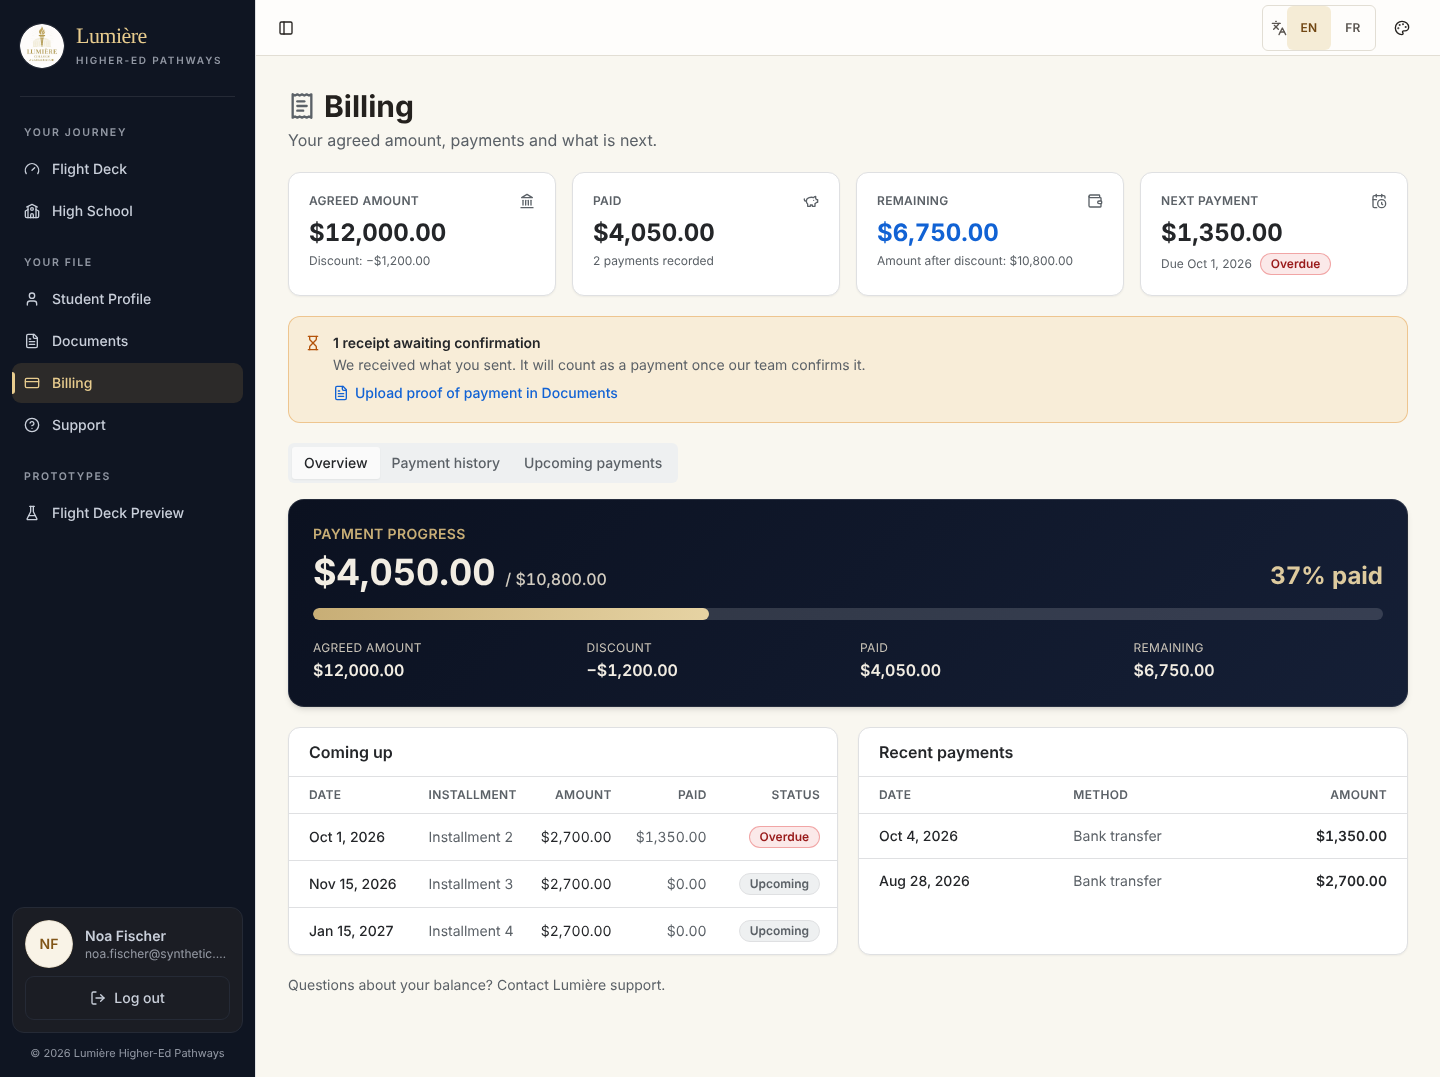
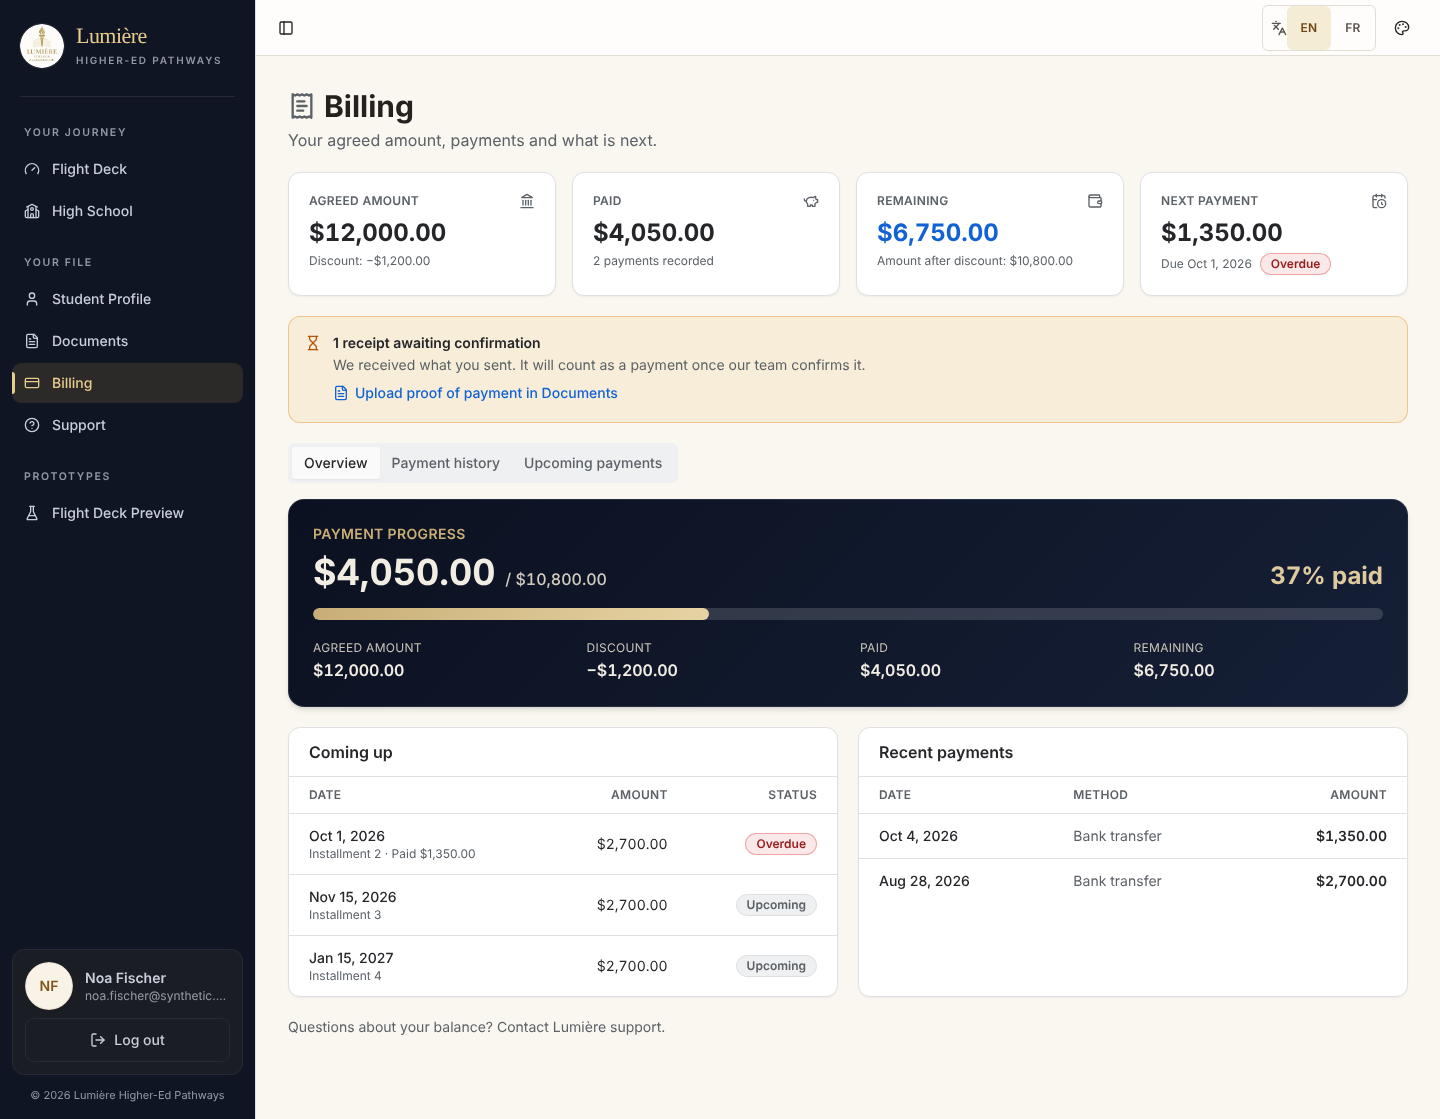
S18: French Billing strings, compact schedule layout, FR persistence check
Billing strings now have a French set selected by the active language; the
half-width 'Coming up' table uses the stacked layout so long labels never
clip. The Billing render script switches to French with the shell toggle,
reloads and asserts html lang and stored preference. Flight Deck area
breakdown gets a visible disclosure chevron.

Claude-Session: https://claude.ai/code/session_01DekWT6b3pFmgRpoZC7hBNu

diff --git a/client/src/pages/billing.tsx b/client/src/pages/billing.tsx
@@ -60,6 +60,52 @@ export const BILLING_TEXT = {
   installmentN: (n: number) => `Installment ${n}`,
 } as const;
 
+/** French counterpart of BILLING_TEXT (same shape; checked by the type below). */
+export const BILLING_TEXT_FR: { readonly [K in keyof typeof BILLING_TEXT]: (typeof BILLING_TEXT)[K] extends (...a: infer A) => string ? (...a: A) => string : string } = {
+  loading: "Chargement de votre facturation…",
+  errorTitle: "Nous n’avons pas pu charger votre facturation",
+  errorDetail: "Vos informations sont en sécurité. Veuillez réessayer dans un instant.",
+  retry: "Réessayer",
+  progressTitle: "Progression des paiements",
+  progressLabel: "Part du montant de votre programme déjà payée",
+  percentPaid: (pct: number) => `${pct} % payé`,
+  netAmount: "Montant après remise",
+  discountApplied: (amount: string) => `Remise de ${amount} incluse`,
+  noDiscount: "Aucune remise appliquée",
+  paymentsCount: (n: number) => (n === 1 ? "1 paiement enregistré" : `${n} paiements enregistrés`),
+  noPaymentsYet: "Aucun paiement enregistré pour l’instant",
+  creditNote: (amount: string) => `Crédit de ${amount} sur votre compte`,
+  allPaid: "Tous les paiements ont été reçus",
+  noSchedule: "Aucun échéancier pour l’instant",
+  planStatusSettled: "Entièrement payé",
+  planStatusOnTrack: "Conforme à l’échéancier",
+  planStatusOverdue: "Paiement en retard",
+  planStatusNoSchedule: "Aucune date de paiement fixée pour l’instant",
+  breakdownTitle: "Où vous en êtes",
+  scheduleTitle: "Échéancier de paiement",
+  scheduleNote: "L’échéancier indique quand le montant restant est attendu. Il ne s’ajoute pas à ce que vous devez.",
+  historyTitle: "Historique des paiements",
+  historyNote: "Paiements confirmés par notre équipe.",
+  recentPayments: "Paiements récents",
+  nextUp: "À venir",
+  date: "Date",
+  installment: "Échéance",
+  paidSoFar: "Payé",
+  status: "Statut",
+  total: "Total",
+  awaitingTitle: (n: number) => (n === 1 ? "1 justificatif en attente de confirmation" : `${n} justificatifs en attente de confirmation`),
+  awaitingDetail: "Nous avons bien reçu votre envoi. Il comptera comme paiement dès que notre équipe l’aura confirmé.",
+  uploadProof: "Déposer un justificatif de paiement dans Documents",
+  contactNote: "Une question sur votre solde ? Contactez l’assistance Lumière.",
+  installmentN: (n: number) => `Échéance ${n}`,
+};
+
+/** Billing strings for the active language. */
+export function billingText(language: string): typeof BILLING_TEXT_FR {
+  return language === "fr" ? BILLING_TEXT_FR : BILLING_TEXT;
+}
+
+
 const STATUS_KEY: Record<InstallmentStatus, TranslationKey> = {
   paid: "billing.status.paid",
   partially_paid: "billing.status.partiallyPaid",
@@ -77,7 +123,8 @@ const STATUS_STYLE: Record<InstallmentStatus, string> = {
 };
 
 export function StatusBadge({ status }: { status: InstallmentStatus }) {
-  const { t } = useT();
+  const { t, language } = useT();
+  const BT = billingText(language);
   return (
     <span
       className={cn("inline-flex items-center whitespace-nowrap rounded-full border px-2.5 py-0.5 text-xs font-semibold", STATUS_STYLE[status])}
@@ -101,18 +148,19 @@ function SummaryCard({ icon: Icon, label, value, sub, testId, emphasis }: { icon
   );
 }
 
-function planStatus(v: StudentBillingConfigured): { label: string; tone: "ok" | "warn" | "neutral" } {
-  if (v.remainingCents === 0) return { label: BILLING_TEXT.planStatusSettled, tone: "ok" };
-  if (v.installments.some((i) => i.status === "overdue")) return { label: BILLING_TEXT.planStatusOverdue, tone: "warn" };
-  if (v.installments.length === 0) return { label: BILLING_TEXT.planStatusNoSchedule, tone: "neutral" };
-  return { label: BILLING_TEXT.planStatusOnTrack, tone: "ok" };
+function planStatus(v: StudentBillingConfigured, BT: typeof BILLING_TEXT_FR): { label: string; tone: "ok" | "warn" | "neutral" } {
+  if (v.remainingCents === 0) return { label: BT.planStatusSettled, tone: "ok" };
+  if (v.installments.some((i) => i.status === "overdue")) return { label: BT.planStatusOverdue, tone: "warn" };
+  if (v.installments.length === 0) return { label: BT.planStatusNoSchedule, tone: "neutral" };
+  return { label: BT.planStatusOnTrack, tone: "ok" };
 }
 
 function Summary({ v }: { v: StudentBillingConfigured }) {
   const { t, language } = useT();
+  const BT = billingText(language);
   const money = (c: number) => formatMoney(c, v.currency, language);
   const next = v.nextDue;
-  const plan = planStatus(v);
+  const plan = planStatus(v, BT);
   return (
     <div className="grid grid-cols-2 gap-3 lg:grid-cols-4 lg:gap-4" data-testid="billing-summary">
       <SummaryCard
@@ -120,14 +168,14 @@ function Summary({ v }: { v: StudentBillingConfigured }) {
         icon={Landmark}
         label={t("billing.summary.agreedAmount")}
         value={money(v.agreedCents)}
-        sub={v.discountCents > 0 ? `${t("billing.summary.discount")}: −${money(v.discountCents)}` : BILLING_TEXT.noDiscount}
+        sub={v.discountCents > 0 ? `${t("billing.summary.discount")}: −${money(v.discountCents)}` : BT.noDiscount}
       />
       <SummaryCard
         testId="card-paid"
         icon={PiggyBank}
         label={t("billing.summary.paid")}
         value={money(v.paidCents)}
-        sub={v.receipts.length === 0 ? BILLING_TEXT.noPaymentsYet : BILLING_TEXT.paymentsCount(v.receipts.length)}
+        sub={v.receipts.length === 0 ? BT.noPaymentsYet : BT.paymentsCount(v.receipts.length)}
       />
       <SummaryCard
         testId="card-remaining"
@@ -135,7 +183,7 @@ function Summary({ v }: { v: StudentBillingConfigured }) {
         label={t("billing.summary.remaining")}
         value={money(v.remainingCents)}
         emphasis={v.remainingCents > 0}
-        sub={v.overpaid ? BILLING_TEXT.creditNote(money(v.creditCents)) : v.remainingCents === 0 ? BILLING_TEXT.allPaid : BILLING_TEXT.netAmount + ": " + money(v.netObligationCents)}
+        sub={v.overpaid ? BT.creditNote(money(v.creditCents)) : v.remainingCents === 0 ? BT.allPaid : BT.netAmount + ": " + money(v.netObligationCents)}
       />
       <SummaryCard
         testId="card-next-payment"
@@ -149,7 +197,7 @@ function Summary({ v }: { v: StudentBillingConfigured }) {
               <StatusBadge status={next.status} />
             </span>
           ) : v.remainingCents > 0 && v.installments.length === 0 ? (
-            BILLING_TEXT.noSchedule
+            BT.noSchedule
           ) : undefined
         }
       />
@@ -160,6 +208,7 @@ function Summary({ v }: { v: StudentBillingConfigured }) {
 /** The navy progress panel: fixed dark palette so it reads the same under every theme. */
 function ProgressPanel({ v }: { v: StudentBillingConfigured }) {
   const { t, language } = useT();
+  const BT = billingText(language);
   const money = (c: number) => formatMoney(c, v.currency, language);
   const pct = paidPercent(v.paidCents, v.netObligationCents);
   return (
@@ -171,17 +220,17 @@ function ProgressPanel({ v }: { v: StudentBillingConfigured }) {
     >
       <div className="flex flex-wrap items-end justify-between gap-3">
         <div>
-          <h2 id="billing-progress-title" className="text-sm font-semibold uppercase tracking-wide text-[#c8ae76]">{BILLING_TEXT.progressTitle}</h2>
+          <h2 id="billing-progress-title" className="text-sm font-semibold uppercase tracking-wide text-[#c8ae76]">{BT.progressTitle}</h2>
           <p className="mt-2 text-3xl font-bold tabular-nums sm:text-4xl">
             {money(v.paidCents)} <span className="text-base font-medium text-[#d2ccc0]">/ {money(v.netObligationCents)}</span>
           </p>
         </div>
-        <p className="text-2xl font-bold tabular-nums text-[#ddca9e]" data-testid="text-percent-paid">{BILLING_TEXT.percentPaid(pct)}</p>
+        <p className="text-2xl font-bold tabular-nums text-[#ddca9e]" data-testid="text-percent-paid">{BT.percentPaid(pct)}</p>
       </div>
       <div
         className="mt-4 h-3 w-full overflow-hidden rounded-full bg-white/15"
         role="progressbar"
-        aria-label={BILLING_TEXT.progressLabel}
+        aria-label={BT.progressLabel}
         aria-valuemin={0}
         aria-valuemax={100}
         aria-valuenow={pct}
@@ -206,16 +255,17 @@ function ProgressPanel({ v }: { v: StudentBillingConfigured }) {
 }
 
 function Awaiting({ n }: { n: number }) {
+  const BT = billingText(useT().language);
   if (n === 0) return null;
   return (
     <div className="flex items-start gap-3 rounded-xl border border-amber-600/35 bg-amber-500/10 p-4 text-sm text-foreground" role="status" data-testid="billing-awaiting">
       <Hourglass className="mt-0.5 h-4 w-4 shrink-0 text-amber-700 dark:text-amber-300" aria-hidden />
       <div className="min-w-0">
-        <p className="font-semibold">{BILLING_TEXT.awaitingTitle(n)}</p>
-        <p className="mt-0.5 text-muted-foreground">{BILLING_TEXT.awaitingDetail}</p>
+        <p className="font-semibold">{BT.awaitingTitle(n)}</p>
+        <p className="mt-0.5 text-muted-foreground">{BT.awaitingDetail}</p>
         <Link href="/documents" className="mt-2 inline-flex items-center gap-1.5 font-medium text-primary underline-offset-4 hover:underline" data-testid="link-upload-proof">
           <FileText className="h-4 w-4" aria-hidden />
-          {BILLING_TEXT.uploadProof}
+          {BT.uploadProof}
         </Link>
       </div>
     </div>
@@ -236,27 +286,31 @@ function PanelCard({ title, note, children, testId }: { title: string; note?: st
 
 function ScheduleTable({ rows, all, currency, limit }: { rows: readonly StudentInstallment[]; all: readonly StudentInstallment[]; currency: string; limit?: number }) {
   const { t, language } = useT();
+  const BT = billingText(language);
   const shown = limit ? rows.slice(0, limit) : rows;
+  // The compact (overview, half-width) table always uses the stacked three-column layout so long labels never clip.
+  const wideCol = limit ? "hidden" : "hidden sm:table-cell";
+  const stacked = limit ? "block" : "block sm:hidden";
   if (rows.length === 0) return <p className="px-4 py-8 text-center text-sm text-muted-foreground sm:px-5">{t("billing.noUpcoming")}</p>;
   return (
-    <div className="overflow-x-auto" tabIndex={0} role="region" aria-label={BILLING_TEXT.scheduleTitle}>
+    <div className="overflow-x-auto" tabIndex={0} role="region" aria-label={BT.scheduleTitle}>
       <table className="w-full text-sm" data-testid="table-installments">
         <thead>
           <tr className="border-b text-left text-xs uppercase tracking-wide text-muted-foreground">
-            <th scope="col" className="px-4 py-2.5 font-semibold sm:px-5">{BILLING_TEXT.date}</th>
-            <th scope="col" className="hidden px-3 py-2.5 font-semibold sm:table-cell">{BILLING_TEXT.installment}</th>
+            <th scope="col" className="px-4 py-2.5 font-semibold sm:px-5">{BT.date}</th>
+            <th scope="col" className={cn(wideCol, "px-3 py-2.5 font-semibold")}>{BT.installment}</th>
             <th scope="col" className="px-3 py-2.5 text-right font-semibold">{t("billing.amount")}</th>
-            <th scope="col" className="hidden px-3 py-2.5 text-right font-semibold sm:table-cell">{BILLING_TEXT.paidSoFar}</th>
-            <th scope="col" className="px-4 py-2.5 text-right font-semibold sm:px-5">{BILLING_TEXT.status}</th>
+            <th scope="col" className={cn(wideCol, "px-3 py-2.5 text-right font-semibold")}>{BT.paidSoFar}</th>
+            <th scope="col" className="px-4 py-2.5 text-right font-semibold sm:px-5">{BT.status}</th>
           </tr>
         </thead>
         <tbody>
           {shown.map((i) => (
             <tr key={i.id} className="border-b last:border-0" data-testid={`row-installment-${i.id}`}>
-              <td className="px-4 py-3 font-medium sm:px-5"><span className="whitespace-nowrap">{formatBillingDate(i.dueDate, language)}</span><span className="block text-xs font-normal text-muted-foreground sm:hidden">{i.label ?? BILLING_TEXT.installmentN(all.findIndex((x) => x.id === i.id) + 1)}{i.allocatedCents > 0 && i.status !== "paid" ? ` · ${BILLING_TEXT.paidSoFar} ${formatMoney(i.allocatedCents, currency, language)}` : ""}</span></td>
-              <td className="hidden px-3 py-3 text-muted-foreground sm:table-cell">{i.label ?? BILLING_TEXT.installmentN(all.findIndex((x) => x.id === i.id) + 1)}</td>
+              <td className="px-4 py-3 font-medium sm:px-5"><span className="whitespace-nowrap">{formatBillingDate(i.dueDate, language)}</span><span className={cn(stacked, "text-xs font-normal text-muted-foreground")}>{i.label ?? BT.installmentN(all.findIndex((x) => x.id === i.id) + 1)}{i.allocatedCents > 0 && i.status !== "paid" ? ` · ${BT.paidSoFar} ${formatMoney(i.allocatedCents, currency, language)}` : ""}</span></td>
+              <td className={cn(wideCol, "px-3 py-3 text-muted-foreground")}>{i.label ?? BT.installmentN(all.findIndex((x) => x.id === i.id) + 1)}</td>
               <td className="px-3 py-3 text-right tabular-nums">{formatMoney(i.amountCents, currency, language)}</td>
-              <td className="hidden px-3 py-3 text-right tabular-nums text-muted-foreground sm:table-cell">{formatMoney(i.allocatedCents, currency, language)}</td>
+              <td className={cn(wideCol, "px-3 py-3 text-right tabular-nums text-muted-foreground")}>{formatMoney(i.allocatedCents, currency, language)}</td>
               <td className="px-4 py-3 text-right sm:px-5"><StatusBadge status={i.status} /></td>
             </tr>
           ))}
@@ -268,14 +322,15 @@ function ScheduleTable({ rows, all, currency, limit }: { rows: readonly StudentI
 
 function HistoryTable({ v, limit }: { v: StudentBillingConfigured; limit?: number }) {
   const { t, language } = useT();
+  const BT = billingText(language);
   const rows = limit ? v.receipts.slice(0, limit) : v.receipts;
   if (v.receipts.length === 0) return <p className="px-4 py-8 text-center text-sm text-muted-foreground sm:px-5">{t("billing.noPayments")}</p>;
   return (
-    <div className="overflow-x-auto" tabIndex={0} role="region" aria-label={BILLING_TEXT.historyTitle}>
+    <div className="overflow-x-auto" tabIndex={0} role="region" aria-label={BT.historyTitle}>
       <table className="w-full text-sm" data-testid="table-receipts">
         <thead>
           <tr className="border-b text-left text-xs uppercase tracking-wide text-muted-foreground">
-            <th scope="col" className="px-4 py-2.5 font-semibold sm:px-5">{BILLING_TEXT.date}</th>
+            <th scope="col" className="px-4 py-2.5 font-semibold sm:px-5">{BT.date}</th>
             <th scope="col" className="hidden px-3 py-2.5 font-semibold sm:table-cell">{t("billing.method")}</th>
             <th scope="col" className="px-4 py-2.5 text-right font-semibold sm:px-5">{t("billing.amount")}</th>
           </tr>
@@ -292,7 +347,7 @@ function HistoryTable({ v, limit }: { v: StudentBillingConfigured; limit?: numbe
         {limit === undefined ? (
           <tfoot>
             <tr className="border-t-2">
-              <th scope="row" colSpan={1} className="px-4 py-3 text-left font-semibold sm:px-5">{BILLING_TEXT.total}</th>
+              <th scope="row" colSpan={1} className="px-4 py-3 text-left font-semibold sm:px-5">{BT.total}</th>
               <td className="px-4 py-3 text-right font-bold tabular-nums sm:px-5" data-testid="text-receipts-total" colSpan={2}>{formatMoney(v.paidCents, v.currency, language)}</td>
             </tr>
           </tfoot>
@@ -303,7 +358,8 @@ function HistoryTable({ v, limit }: { v: StudentBillingConfigured; limit?: numbe
 }
 
 function Configured({ v }: { v: StudentBillingConfigured }) {
-  const { t } = useT();
+  const { t, language } = useT();
+  const BT = billingText(language);
   const upcoming = v.installments.filter((i) => i.status !== "paid");
   return (
     <div className="space-y-5">
@@ -319,34 +375,35 @@ function Configured({ v }: { v: StudentBillingConfigured }) {
         <TabsContent value="overview" className="space-y-5">
           <ProgressPanel v={v} />
           <div className="grid gap-5 lg:grid-cols-2">
-            <PanelCard title={BILLING_TEXT.nextUp} testId="panel-next-up">
+            <PanelCard title={BT.nextUp} testId="panel-next-up">
               <ScheduleTable rows={upcoming} all={v.installments} currency={v.currency} limit={3} />
             </PanelCard>
-            <PanelCard title={BILLING_TEXT.recentPayments} testId="panel-recent">
+            <PanelCard title={BT.recentPayments} testId="panel-recent">
               <HistoryTable v={v} limit={3} />
             </PanelCard>
           </div>
         </TabsContent>
 
         <TabsContent value="history">
-          <PanelCard title={BILLING_TEXT.historyTitle} note={BILLING_TEXT.historyNote} testId="panel-history">
+          <PanelCard title={BT.historyTitle} note={BT.historyNote} testId="panel-history">
             <HistoryTable v={v} />
           </PanelCard>
         </TabsContent>
 
         <TabsContent value="upcoming">
-          <PanelCard title={BILLING_TEXT.scheduleTitle} note={BILLING_TEXT.scheduleNote} testId="panel-schedule">
+          <PanelCard title={BT.scheduleTitle} note={BT.scheduleNote} testId="panel-schedule">
             <ScheduleTable rows={v.installments} all={v.installments} currency={v.currency} />
           </PanelCard>
         </TabsContent>
       </Tabs>
-      <p className="text-sm text-muted-foreground">{BILLING_TEXT.contactNote}</p>
+      <p className="text-sm text-muted-foreground">{BT.contactNote}</p>
     </div>
   );
 }
 
 function NotConfigured({ awaiting }: { awaiting: number }) {
-  const { t } = useT();
+  const { t, language } = useT();
+  const BT = billingText(language);
   return (
     <div className="space-y-4">
       <section className="rounded-xl border bg-card p-6 text-card-foreground shadow-sm sm:p-8" data-testid="billing-not-configured">
@@ -355,7 +412,7 @@ function NotConfigured({ awaiting }: { awaiting: number }) {
           <div>
             <h2 className="text-lg font-semibold">{t("billing.notSetUp")}</h2>
             <p className="mt-1 max-w-prose text-sm text-muted-foreground">{t("billing.notSetUpDetail")}</p>
-            <p className="mt-3 text-sm text-muted-foreground">{BILLING_TEXT.contactNote}</p>
+            <p className="mt-3 text-sm text-muted-foreground">{BT.contactNote}</p>
           </div>
         </div>
       </section>
@@ -365,8 +422,9 @@ function NotConfigured({ awaiting }: { awaiting: number }) {
 }
 
 function Loading() {
+  const BT = billingText(useT().language);
   return (
-    <div className="space-y-4" role="status" aria-live="polite" aria-label={BILLING_TEXT.loading} data-testid="billing-loading">
+    <div className="space-y-4" role="status" aria-live="polite" aria-label={BT.loading} data-testid="billing-loading">
       <div className="grid grid-cols-2 gap-3 lg:grid-cols-4">{[0, 1, 2, 3].map((i) => <Skeleton key={i} className="h-28 rounded-xl" />)}</div>
       <Skeleton className="h-44 rounded-2xl" />
       <Skeleton className="h-56 rounded-xl" />
@@ -375,16 +433,17 @@ function Loading() {
 }
 
 function LoadError({ onRetry }: { onRetry: () => void }) {
+  const BT = billingText(useT().language);
   return (
     <section className="rounded-xl border border-destructive/40 bg-card p-6 shadow-sm" role="alert" data-testid="billing-error">
       <div className="flex items-start gap-3">
         <AlertCircle className="mt-0.5 h-5 w-5 shrink-0 text-destructive" aria-hidden />
         <div>
-          <h2 className="font-semibold">{BILLING_TEXT.errorTitle}</h2>
-          <p className="mt-1 text-sm text-muted-foreground">{BILLING_TEXT.errorDetail}</p>
+          <h2 className="font-semibold">{BT.errorTitle}</h2>
+          <p className="mt-1 text-sm text-muted-foreground">{BT.errorDetail}</p>
           <Button variant="outline" size="sm" className="mt-3" onClick={onRetry} data-testid="button-retry">
             <RefreshCw className="mr-2 h-4 w-4" aria-hidden />
-            {BILLING_TEXT.retry}
+            {BT.retry}
           </Button>
         </div>
       </div>
@@ -393,7 +452,8 @@ function LoadError({ onRetry }: { onRetry: () => void }) {
 }
 
 export default function Billing() {
-  const { t } = useT();
+  const { t, language } = useT();
+  const BT = billingText(language);
   const { data, isLoading, error, refetch } = useStudentBilling();
 
   return (

diff --git a/scripts/s18/render-billing-screens.ts b/scripts/s18/render-billing-screens.ts
@@ -141,6 +141,25 @@ async function main() {
       await ctx.close();
     }
 
+    // French: switch with the shell toggle, reload, and confirm the preference persisted (S18 integration check).
+    for (const width of [1440, 390] as const) {
+      const { page, ctx, errors } = await open(browser, { theme: "lumiere", width, handler: handler(ok(BILLING_CONFIGURED)) });
+      await page.goto(BASE + "/billing");
+      await settle(page, '[data-testid="billing-summary"]');
+      await page.click('[data-testid="button-language-fr"]');
+      await page.reload();
+      await settle(page, '[data-testid="billing-summary"]');
+      const lang = await page.evaluate(() => document.documentElement.lang);
+      const stored = await page.evaluate(() => localStorage.getItem("lumiere_language"));
+      const text = await page.locator("body").innerText();
+      rec(`fr-persisted-${width}`, lang === "fr" && stored === "fr", `html lang=${lang}, stored=${stored}`);
+      rec(`fr-nav-${width}`, /Facturation/.test(text) && /Assistance/.test(text), "French navigation labels after reload");
+      rec(`fr-no-banned-${width}`, !BANNED.test(text), "no payment gateway text in French");
+      await shot(page, `billing-overview-${width}-lumiere-fr.png`);
+      rec(`pageerrors-fr-${width}`, errors.length === 0, errors.join("; ") || "none");
+      await ctx.close();
+    }
+
     {
       const { page, ctx, errors } = await open(browser, { theme: "lumiere", width: 1440, handler: handler(ok(BILLING_NOT_CONFIGURED)) });
       await page.goto(BASE + "/billing");
